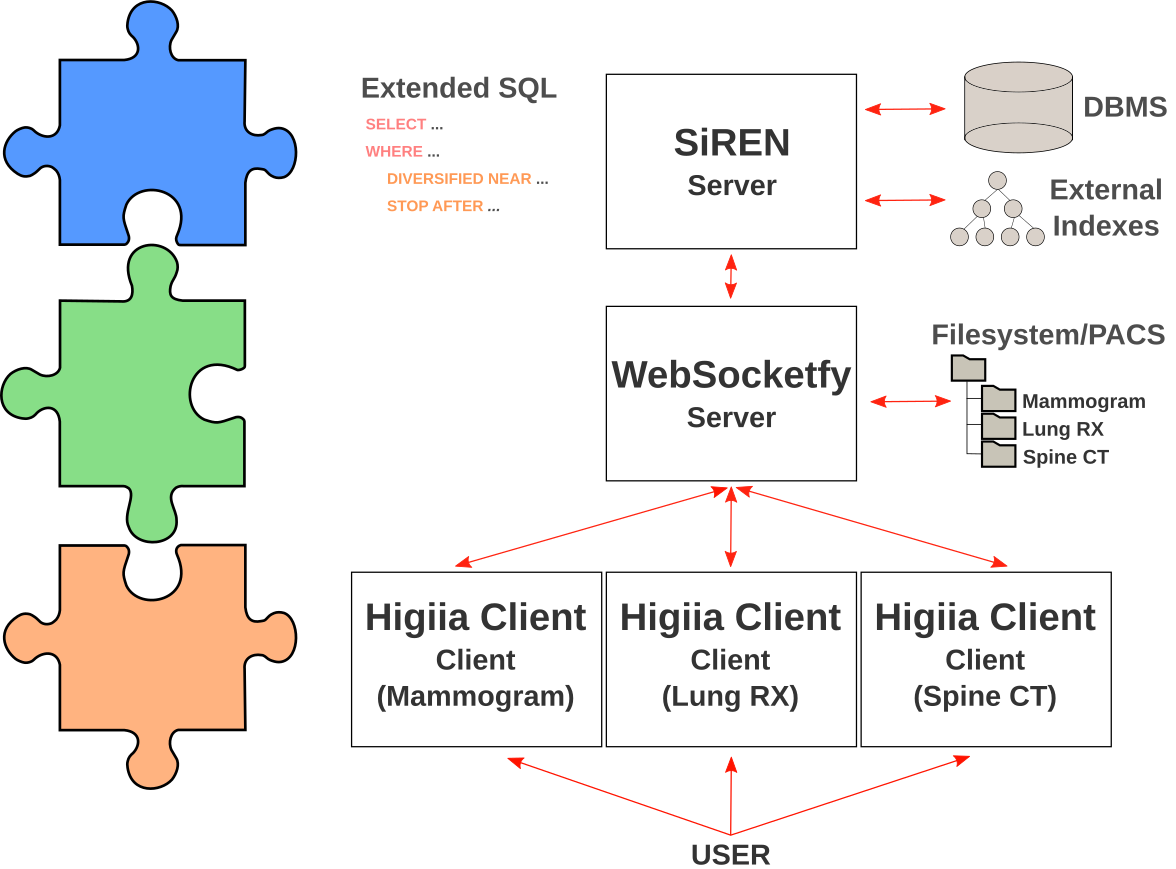
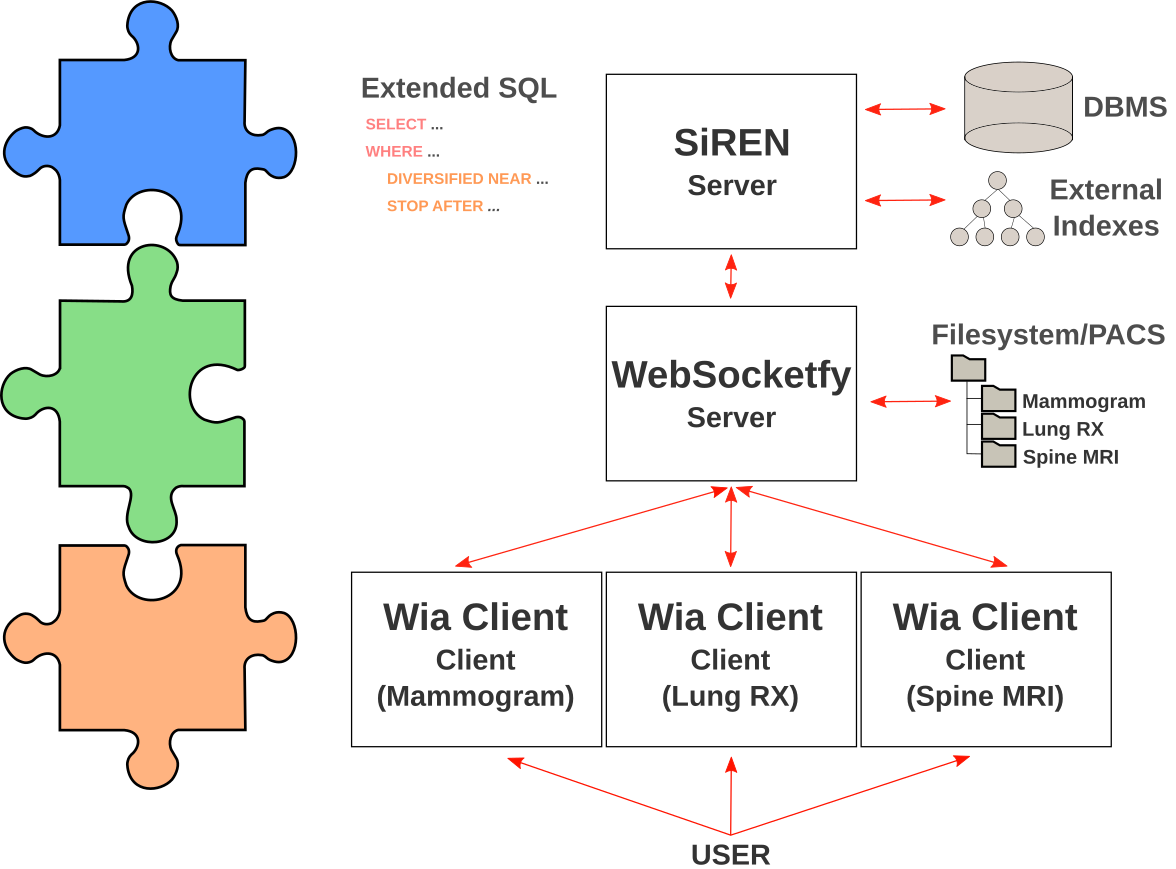
Fixing links on README.md

Changed region(s): [[0.3061, 0.6835, 0.949, 0.7457], [0.7653, 0.7768, 0.9184, 0.8389], [0.9184, 0.4971, 0.949, 0.5593]]

diff --git a/README.md b/README.md
@@ -1,10 +1,10 @@
-# WebHigiia - Client Project Sandbox 
+# WebHigiia (Wia) - Client Project Sandbox 
 
-## _A domainless Content-Based Medical Image Retrieval tool for CT and RX_
+## _A domainless Content-Based Medical Image Retrieval tool for X-Ray, CT and MRI images_
 
 **WARNING: WebHigiia is NOT clinical software. It was designed for education and demonstration purposes ONLY!**
 
-WebHigiia is a Content-Based Medical Image Retrieval (CBMIR) tool designed for querying CT and RX images. This version is a full rebase of the Higiia system and was coded in C++ with Qt SDK (5.15.1 - LGPL-license), and it is compatible with Web Assembly (emscripten coupled to Qt 5.15.1 with em++ compiler v2.0.22).
+WebHigiia (Wia) is a Content-Based Medical Image Retrieval (CBMIR) tool designed for querying RX, CT and MRI images. WebHigiia is coded in C++ with Qt SDK (5.15.1 - LGPL-license), and it is compatible with Web Assembly (Emscripten coupled to Qt 5.15.1 with em++ compiler v2.0.22).
 
 It supports JPEG, PNG, BMP, KRL, and DICOM medical images through self-contained 3rd-party libraries. The search mechanism is provided by a server counterpart that supports extended SQL queries (see [The Siren Project][siren]). Additionally, an external file server application is used for managing medical image storage (see [Websocketfy Project for WebHigiia](https://github.com/marcosivni/websocketfy)).
 
@@ -22,13 +22,13 @@ The following steps are required to set your first WebHigiia CBMIR application u
 > You can use a simple telnet connection (*i.e.*, `telnet <siren-server-ip> <siren-server-port>`) to submit the DDL script that contains standard SQL commands for the creation of the WebHigiia model tables.
 
 3. Structure your medical image dataset as an *WebHigiia table*. Then, create it on the server-side.
-> Please, refer to the [WebHigiia Modelling Guide][model] to structure your medical dataset as an WebHigiia table. The modeling process will also generate a table in which queries shall be placed.
+> Please, refer to the [WebHigiia Modelling Guide][model] to structure your medical dataset as an WebHigiia table. The modeling process also generates a table where the query images will be inserted.
 
-4. Load your **data** in the new dataset table and the **queries** (potentially undiagnosed cases) in the query table.
+4. Load your **data** in the new dataset table and the **query images** (potentially undiagnosed cases) in the query table.
 > Data are inserted with simple extended INSERT INTO commands. See the [example for mammograms][model]. Notice, feature extraction can be carried out manually or with the support of your favorite programming language and framework, e.g., sklearn, pandas, etc.
 
 5. Run WebHigiia.
-> You can either straightforwardly run the higiia.html file alongside .wasm and .js loaders or compile the source code with Qt to generate a binary version of WebHigiia. 
+> You can either straightforwardly run the WebHigiia.html file alongside .wasm and .js loaders or compile the source code with Qt to generate a binary version of WebHigiia. 
 
 6. ✨Query (undiagnosed) images by content✨
 
@@ -49,7 +49,7 @@ The WebHigiia client tool relies on a series of background technologies and 3rd-
 
 1. Background technologies 
     - [Qt SDK][qt] - Qt Cross-Platform and SDK C++ development environment. In addition module CHARTS must be downloaded (sudo apt-get install libqt5charts5-dev on Debian-based distros).
-    - [Emscripten][ems] - The Open Source Emscripten compiler toolchain (from C++) to WebAssembly. Supported (in some way) by Qt for WebAssembly.
+    - [Emscripten][ems] - The Open Source Emscripten compiler toolchain (from C++) to WebAssembly. Supported (in certain way) by Qt for WebAssembly.
 
 2.  3rd-party libraries (self-contained)
     - [Hermes][hermes] - Our own C++ library of distance functions (and utils).
@@ -67,7 +67,7 @@ Known limitations include:
 ## Installation
 
 Install the background technologies and download the source code of 3rd-party libraries.
-Then, adjust the include paths of `higiia.pro.example` file to point to the installation folders of the 3rd-party libraries and rename it to `higiia.pro`.
+Then, adjust the include paths of `webhigiia.pro.example` file to point to the installation folders of the 3rd-party libraries and rename it to `webhigiia.pro`.
 After that, you can use `build.sh` to compile the client version.
 Notice, you can configure the building type of WebHigiia in the `build.sh` file itself by selecting the `qmake` binary of your QT setup (e.g., wasm\_32 (default) or gcc\_64).
 
